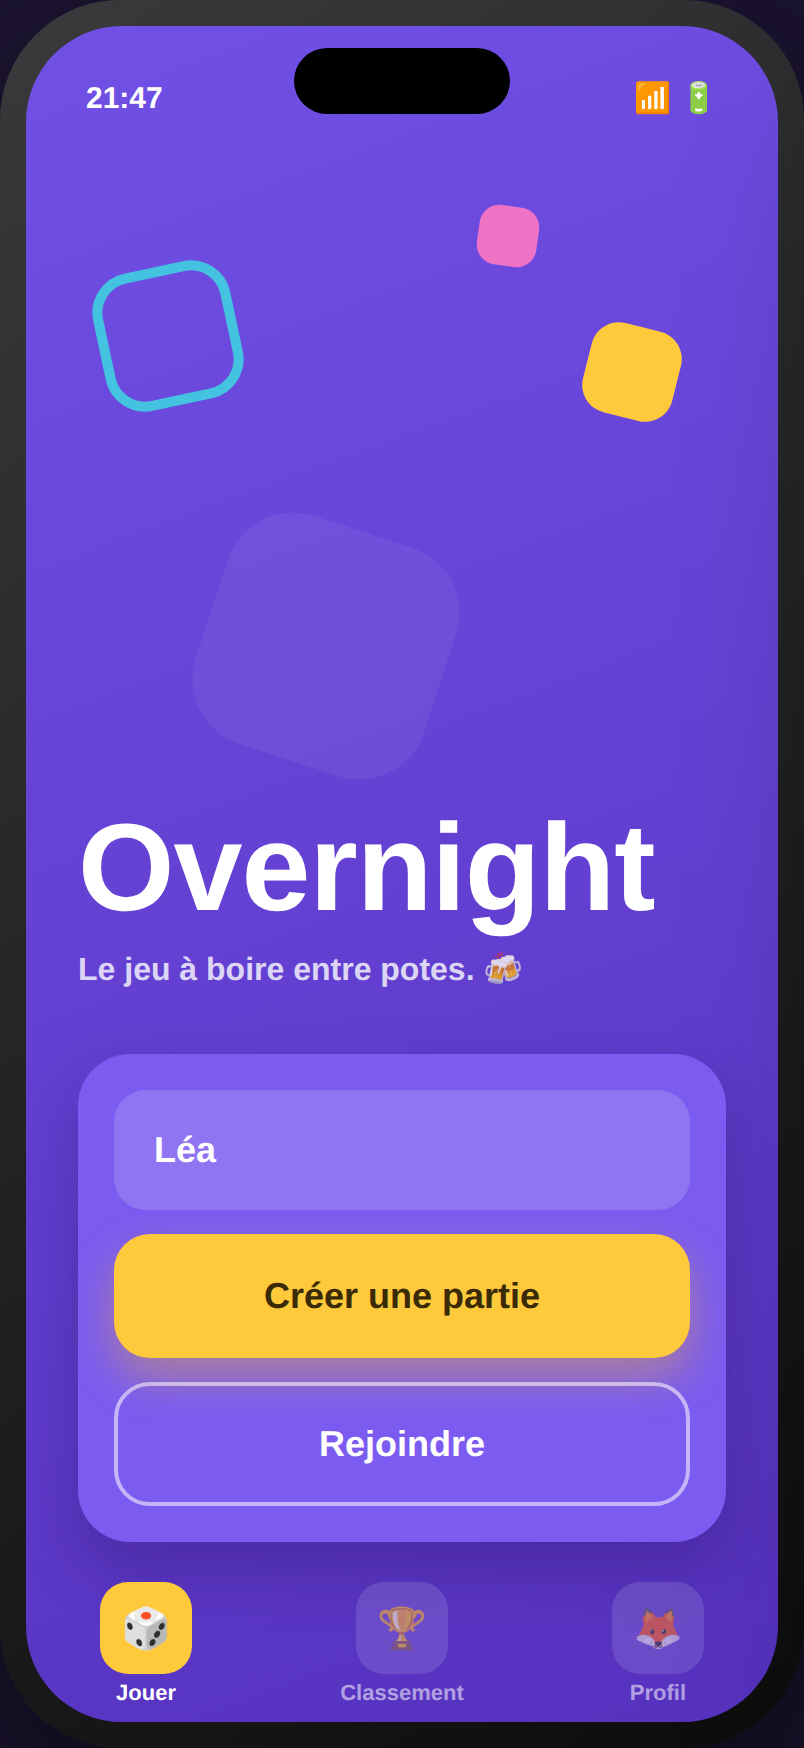
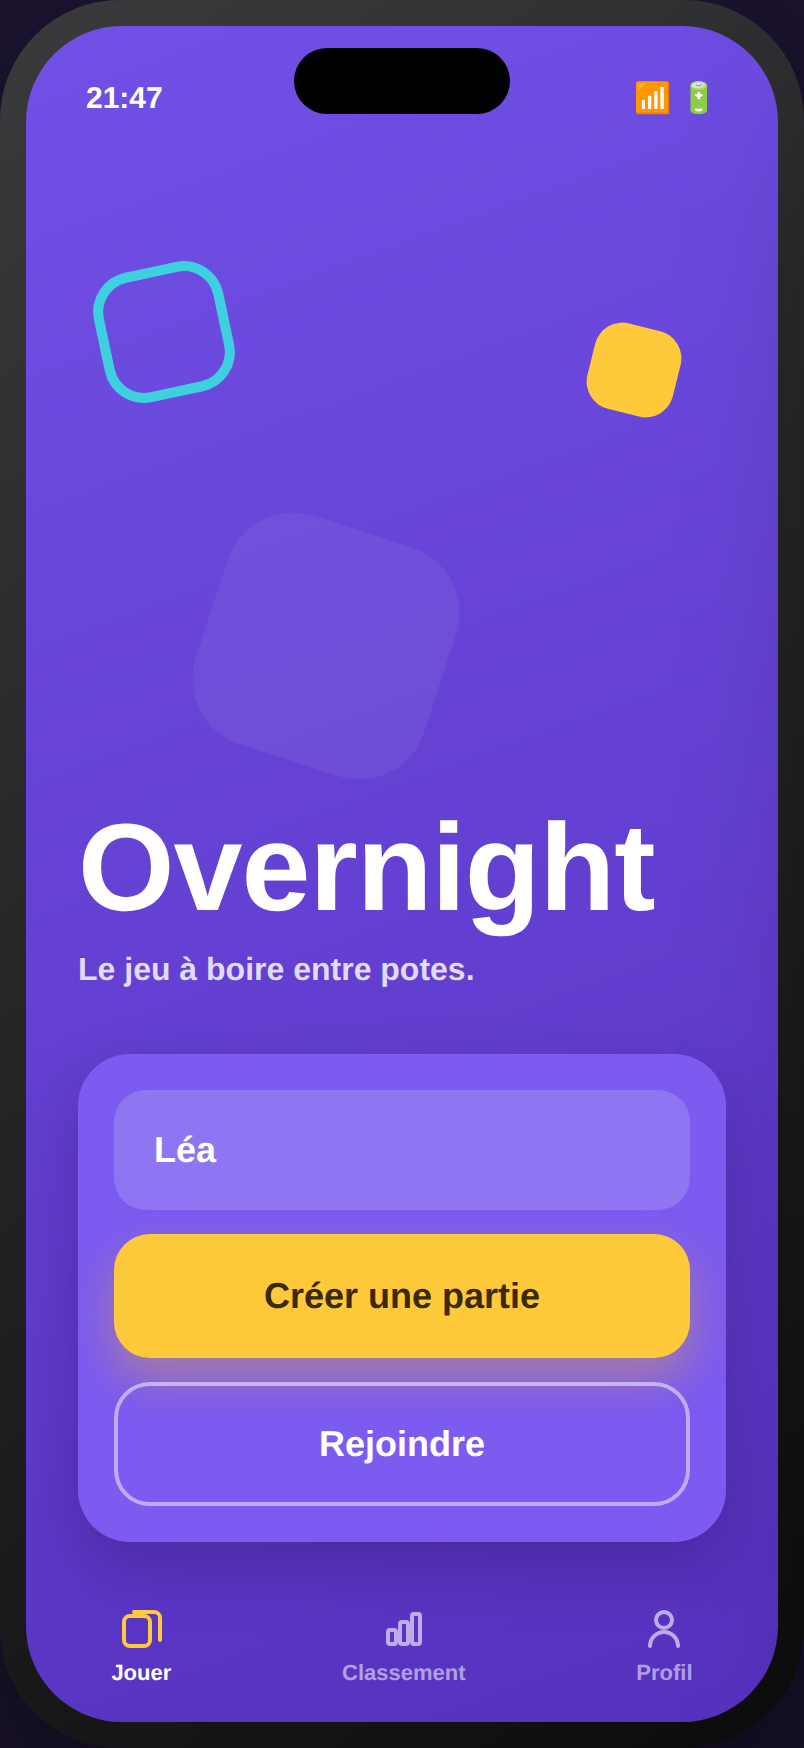
V4.1: remove emojis from UI, simplify
- Avatars = initiales en pastilles de couleur (fini les emojis animaux).
- Nav = icônes ligne SVG ; boutons = texte clair (plus de 🍷😏🎲🏆👑).
- Écrans allégés, plus sobres. Même base flat violet/jaune validée.

https://claude.ai/code/session_01EjMXnZb7XxANsUtYs8obX9

diff --git a/mockups/demo-v4.html b/mockups/demo-v4.html
@@ -3,20 +3,18 @@
 <head>
 <meta charset="UTF-8" />
 <meta name="viewport" content="width=device-width, initial-scale=1.0" />
-<title>Overnight — V4 flat (propre)</title>
+<title>Overnight — V4.1 flat (épuré, sans emoji)</title>
 <link rel="preconnect" href="https://fonts.googleapis.com">
 <link rel="preconnect" href="https://fonts.gstatic.com" crossorigin>
 <link href="https://fonts.googleapis.com/css2?family=Poppins:wght@500;600;700;800&family=Nunito+Sans:wght@400;600;700;800&display=swap" rel="stylesheet">
 <style>
   :root{
-    --p-deep:#5631BE; --p-top:#7150E6; --p-card:#7B5BF0; --p-soft:#8E6FF6; --p-input:#6B49DE;
+    --p-deep:#5631BE; --p-top:#7150E6; --p-card:#7B5BF0; --p-input:#6B49DE;
     --yellow:#FFC93C; --yellow-d:#F0B626; --cyan:#3FD0E0; --pink:#FF77C2;
-    --ink:#211A38; --ink2:#7A7396; --white:#fff;
-    --teal-top:#5FC9CE;
+    --ink:#211A38; --ink2:#7A7396; --white:#fff; --teal-top:#5FC9CE;
     --f:"Poppins",-apple-system,"Segoe UI",sans-serif;
     --b:"Nunito Sans",-apple-system,sans-serif;
-    --sh:0 14px 30px rgba(35,16,80,.28);
-    --sh-sm:0 8px 18px rgba(35,16,80,.18);
+    --sh:0 14px 30px rgba(35,16,80,.28); --sh-sm:0 8px 18px rgba(35,16,80,.16);
   }
   *{box-sizing:border-box;margin:0;padding:0;-webkit-font-smoothing:antialiased;}
   body{background:#1c1430;display:flex;flex-wrap:wrap;gap:44px;justify-content:center;align-items:flex-start;padding:52px;font-family:var(--b);}
@@ -24,26 +22,27 @@
   .label{width:100%;text-align:center;color:#9385b8;font-weight:800;letter-spacing:2px;text-transform:uppercase;font-size:12px;margin-top:16px;}
   .screen{position:relative;width:100%;height:100%;border-radius:48px;overflow:hidden;background:linear-gradient(160deg,var(--p-top),var(--p-deep));color:var(--white);}
   .island{position:absolute;top:11px;left:50%;transform:translateX(-50%);width:108px;height:33px;background:#000;border-radius:20px;z-index:60;}
-  .sb{position:absolute;top:0;left:0;right:0;height:54px;z-index:50;display:flex;justify-content:space-between;align-items:center;padding:18px 30px 0;font-weight:700;font-size:15px;color:#fff;font-family:var(--b);}
+  .sb{position:absolute;top:0;left:0;right:0;height:54px;z-index:50;display:flex;justify-content:space-between;align-items:center;padding:18px 30px 0;font-weight:700;font-size:15px;font-family:var(--b);}
   .ct{position:absolute;inset:0;z-index:20;display:flex;flex-direction:column;padding:70px 26px 26px;}
   .shape{position:absolute;z-index:5;}
   h1{font-family:var(--f);font-weight:800;line-height:1.0;letter-spacing:-.5px;}
   h2{font-family:var(--f);font-weight:700;line-height:1.1;}
-  .sub{font-family:var(--b);font-weight:600;color:rgba(255,255,255,.8);line-height:1.45;}
-  .btn{height:62px;border-radius:18px;display:flex;align-items:center;justify-content:center;gap:9px;font-family:var(--f);font-weight:700;font-size:18px;border:none;cursor:pointer;text-decoration:none;}
-  .btn.y{background:var(--yellow);color:#3A2A06;box-shadow:0 10px 22px rgba(240,182,38,.4);}
-  .btn.outline{background:transparent;border:2px solid rgba(255,255,255,.55);color:#fff;}
+  .sub{font-family:var(--b);font-weight:600;color:rgba(255,255,255,.82);line-height:1.45;}
+  .btn{height:62px;border-radius:18px;display:flex;align-items:center;justify-content:center;font-family:var(--f);font-weight:700;font-size:18px;border:none;cursor:pointer;text-decoration:none;}
+  .btn.y{background:var(--yellow);color:#3A2A06;box-shadow:0 10px 22px rgba(240,182,38,.38);}
+  .btn.outline{background:transparent;border:2px solid rgba(255,255,255,.5);color:#fff;}
   .input{height:60px;border-radius:16px;background:rgba(255,255,255,.16);display:flex;align-items:center;padding:0 20px;font-family:var(--f);font-weight:700;font-size:18px;color:#fff;}
-  .ava{border-radius:50%;display:flex;align-items:center;justify-content:center;border:3px solid rgba(255,255,255,.9);}
+  /* avatar monogramme */
+  .av{border-radius:50%;display:flex;align-items:center;justify-content:center;font-family:var(--f);font-weight:700;color:#fff;border:2px solid rgba(255,255,255,.85);}
   .spacer{flex:1;} .row{display:flex;gap:12px;}
-  .navbar{position:absolute;bottom:0;left:0;right:0;height:78px;display:flex;justify-content:space-around;align-items:center;z-index:40;}
-  .nav{display:flex;flex-direction:column;align-items:center;gap:4px;font-family:var(--b);font-weight:700;font-size:11px;color:rgba(255,255,255,.55);}
-  .nav .ic{width:46px;height:46px;border-radius:14px;background:rgba(255,255,255,.12);display:flex;align-items:center;justify-content:center;font-size:20px;}
-  .nav.on{color:#fff;} .nav.on .ic{background:var(--yellow);color:#3A2A06;}
   .seg{display:inline-flex;background:rgba(255,255,255,.14);border-radius:999px;padding:5px;}
-  .seg div{padding:9px 18px;border-radius:999px;font-family:var(--f);font-weight:700;font-size:13px;color:rgba(255,255,255,.8);}
+  .seg div{padding:9px 18px;border-radius:999px;font-family:var(--f);font-weight:700;font-size:13px;color:rgba(255,255,255,.82);}
   .seg div.on{background:#fff;color:var(--p-deep);}
   .rowcard{background:#fff;border-radius:18px;box-shadow:var(--sh-sm);display:flex;align-items:center;gap:14px;padding:12px 16px;color:var(--ink);}
+  .navbar{position:absolute;bottom:0;left:0;right:0;height:78px;display:flex;justify-content:space-around;align-items:center;z-index:40;}
+  .nav{display:flex;flex-direction:column;align-items:center;gap:5px;font-family:var(--f);font-weight:700;font-size:11px;color:rgba(255,255,255,.55);}
+  .nav svg{width:24px;height:24px;stroke:rgba(255,255,255,.6);fill:none;stroke-width:2;stroke-linecap:round;stroke-linejoin:round;}
+  .nav.on{color:#fff;} .nav.on svg{stroke:var(--yellow);}
 </style>
 </head>
 <body>
@@ -51,15 +50,13 @@
 <!-- 1 ACCUEIL -->
 <div><div class="phone"><div class="screen">
   <div class="island"></div><div class="sb"><span>21:47</span><span>📶 🔋</span></div>
-  <!-- formes flat -->
-  <div class="shape" style="top:120px;left:36px;width:70px;height:70px;border-radius:20px;border:5px solid var(--cyan);transform:rotate(-12deg);opacity:.9;"></div>
-  <div class="shape" style="top:150px;right:50px;width:46px;height:46px;border-radius:14px;background:var(--yellow);transform:rotate(14deg);"></div>
-  <div class="shape" style="top:90px;right:120px;width:30px;height:30px;border-radius:10px;background:var(--pink);transform:rotate(8deg);opacity:.9;"></div>
+  <div class="shape" style="top:120px;left:36px;width:66px;height:66px;border-radius:20px;border:5px solid var(--cyan);transform:rotate(-12deg);"></div>
+  <div class="shape" style="top:150px;right:50px;width:44px;height:44px;border-radius:14px;background:var(--yellow);transform:rotate(14deg);"></div>
   <div class="shape" style="top:250px;left:90px;width:120px;height:120px;border-radius:34px;background:rgba(255,255,255,.06);transform:rotate(18deg);"></div>
   <div class="ct" style="padding-bottom:90px;">
     <div class="spacer"></div>
     <h1 style="font-size:62px;">Overnight</h1>
-    <div class="sub" style="margin-top:8px;font-size:16px;">Le jeu à boire entre potes. 🍻</div>
+    <div class="sub" style="margin-top:8px;font-size:16px;">Le jeu à boire entre potes.</div>
     <div style="height:30px;"></div>
     <div style="background:var(--p-card);border-radius:26px;padding:18px;box-shadow:var(--sh);">
       <div class="input">Léa</div>
@@ -68,28 +65,26 @@
     </div>
   </div>
   <div class="navbar">
-    <div class="nav on"><div class="ic">🎲</div>Jouer</div>
-    <div class="nav"><div class="ic">🏆</div>Classement</div>
-    <div class="nav"><div class="ic">🦊</div>Profil</div>
+    <div class="nav on"><svg viewBox="0 0 24 24"><rect x="3" y="6" width="13" height="15" rx="3"/><path d="M8 4h10a3 3 0 0 1 3 3v11"/></svg>Jouer</div>
+    <div class="nav"><svg viewBox="0 0 24 24"><rect x="4" y="13" width="4" height="7" rx="1"/><rect x="10" y="9" width="4" height="11" rx="1"/><rect x="16" y="5" width="4" height="15" rx="1"/></svg>Classement</div>
+    <div class="nav"><svg viewBox="0 0 24 24"><circle cx="12" cy="8" r="4"/><path d="M5 21a7 7 0 0 1 14 0"/></svg>Profil</div>
   </div>
 </div></div><div class="label">1 · Accueil</div></div>
 
 <!-- 2 ROOM / CODE -->
 <div><div class="phone"><div class="screen">
   <div class="island"></div><div class="sb"><span>21:50</span><span>📶 🔋</span></div>
-  <div class="shape" style="top:120px;right:40px;width:56px;height:56px;border-radius:16px;border:5px solid var(--cyan);transform:rotate(12deg);"></div>
-  <div class="shape" style="top:300px;left:30px;width:40px;height:40px;border-radius:12px;background:var(--yellow);transform:rotate(-10deg);"></div>
+  <div class="shape" style="top:120px;right:40px;width:54px;height:54px;border-radius:16px;border:5px solid var(--cyan);transform:rotate(12deg);"></div>
   <div class="ct">
     <div style="text-align:center;"><div class="sub" style="font-family:var(--f);font-weight:700;letter-spacing:3px;font-size:13px;">CODE DE LA PARTIE</div>
       <h1 style="font-size:74px;letter-spacing:8px;margin-top:4px;">FOXY</h1>
       <div class="sub" style="font-size:14px;">Partage le code, ou laisse scanner le QR.</div></div>
-
     <div style="background:var(--p-card);border-radius:24px;padding:18px;margin-top:26px;box-shadow:var(--sh);">
       <h2 style="font-size:17px;margin-bottom:14px;">Autour de la table · 3</h2>
       <div class="row" style="flex-wrap:wrap;gap:10px;">
-        <span style="display:inline-flex;align-items:center;gap:8px;background:rgba(255,255,255,.16);border-radius:999px;padding:7px 14px 7px 7px;font-family:var(--f);font-weight:700;font-size:14px;"><span class="ava" style="width:30px;height:30px;font-size:16px;background:#3FD0E0;border-width:2px;">🦊</span>Léa</span>
-        <span style="display:inline-flex;align-items:center;gap:8px;background:rgba(255,255,255,.16);border-radius:999px;padding:7px 14px 7px 7px;font-family:var(--f);font-weight:700;font-size:14px;"><span class="ava" style="width:30px;height:30px;font-size:16px;background:#FF77C2;border-width:2px;">🐺</span>Maxime</span>
-        <span style="display:inline-flex;align-items:center;gap:8px;background:rgba(255,255,255,.16);border-radius:999px;padding:7px 14px 7px 7px;font-family:var(--f);font-weight:700;font-size:14px;"><span class="ava" style="width:30px;height:30px;font-size:16px;background:#FFC93C;border-width:2px;">🦉</span>Sarah</span>
+        <span style="display:inline-flex;align-items:center;gap:9px;background:rgba(255,255,255,.16);border-radius:999px;padding:6px 16px 6px 6px;font-family:var(--f);font-weight:700;font-size:14px;"><span class="av" style="width:30px;height:30px;font-size:13px;background:#3FD0E0;border-width:0;">L</span>Léa</span>
+        <span style="display:inline-flex;align-items:center;gap:9px;background:rgba(255,255,255,.16);border-radius:999px;padding:6px 16px 6px 6px;font-family:var(--f);font-weight:700;font-size:14px;"><span class="av" style="width:30px;height:30px;font-size:13px;background:#FF77C2;border-width:0;">M</span>Maxime</span>
+        <span style="display:inline-flex;align-items:center;gap:9px;background:rgba(255,255,255,.16);border-radius:999px;padding:6px 16px 6px 6px;font-family:var(--f);font-weight:700;font-size:14px;"><span class="av" style="width:30px;height:30px;font-size:13px;background:#FFC93C;color:#3A2A06;border-width:0;">S</span>Sarah</span>
       </div>
     </div>
     <div class="spacer"></div>
@@ -100,10 +95,9 @@
 <!-- 3 QUESTION (vérités) -->
 <div><div class="phone"><div class="screen" style="background:linear-gradient(165deg,#7B5BF0,var(--teal-top));">
   <div class="island"></div><div class="sb"><span>21:54</span><span>📶 🔋</span></div>
-  <div class="ct" style="align-items:center;">
-    <div class="sub" style="font-family:var(--f);font-weight:700;font-size:14px;align-self:flex-start;">😏 Réponds franchement… ou bois.</div>
+  <div class="ct">
+    <div class="sub" style="font-family:var(--f);font-weight:700;font-size:14px;">Réponds franchement… ou bois.</div>
     <div class="spacer"></div>
-    <!-- carte blanche, gros texte -->
     <div style="width:100%;background:#fff;border-radius:28px;box-shadow:var(--sh);padding:30px 26px;color:var(--ink);">
       <div style="height:6px;width:100%;background:#EEE9F7;border-radius:99px;overflow:hidden;"><div style="width:18%;height:100%;background:var(--p-top);"></div></div>
       <div style="font-family:var(--f);font-weight:700;color:var(--p-top);font-size:14px;margin-top:18px;">Question 7 / 40</div>
@@ -111,14 +105,9 @@
         C'est qui, dans la pièce, que t'as déjà eu envie d'embrasser ?</div>
     </div>
     <div class="spacer"></div>
-    <!-- 2 actions claires -->
-    <div style="display:flex;justify-content:center;gap:40px;width:100%;">
-      <div style="text-align:center;">
-        <div style="width:74px;height:74px;border-radius:50%;background:#fff;display:flex;align-items:center;justify-content:center;font-size:32px;box-shadow:var(--sh-sm);">🍷</div>
-        <div class="sub" style="font-family:var(--f);font-weight:700;font-size:13px;margin-top:8px;">Je bois</div></div>
-      <div style="text-align:center;">
-        <div style="width:74px;height:74px;border-radius:50%;background:var(--yellow);display:flex;align-items:center;justify-content:center;font-size:32px;box-shadow:0 10px 22px rgba(240,182,38,.4);">😏</div>
-        <div class="sub" style="font-family:var(--f);font-weight:700;font-size:13px;margin-top:8px;color:#fff;">Je réponds</div></div>
+    <div class="row" style="width:100%;">
+      <a class="btn outline" style="flex:1;">Je bois</a>
+      <a class="btn y" style="flex:1;">Je réponds</a>
     </div>
   </div>
 </div></div><div class="label">3 · Question (vérités)</div></div>
@@ -130,16 +119,15 @@
     <div style="width:100%;text-align:center;"><div class="sub" style="font-family:var(--f);font-weight:700;font-size:13px;letter-spacing:1px;">LA MONTÉE · MANCHE 1</div>
       <h1 style="font-size:30px;margin-top:4px;">Rouge ou Noir ?</h1></div>
     <div class="spacer"></div>
-    <!-- carte à jouer -->
     <div style="width:180px;height:248px;border-radius:20px;background:#fff;box-shadow:0 22px 44px rgba(0,0,0,.4);display:flex;align-items:center;justify-content:center;position:relative;">
       <div style="position:absolute;top:14px;left:18px;font-family:var(--f);font-weight:700;font-size:32px;color:#E0392B;">7</div>
       <div style="position:absolute;bottom:14px;right:18px;font-family:var(--f);font-weight:700;font-size:32px;color:#E0392B;transform:rotate(180deg);">7</div>
-      <div style="font-size:92px;color:#E0392B;">♥</div></div>
-    <div style="margin-top:18px;font-family:var(--f);font-weight:700;font-size:16px;color:rgba(255,255,255,.9);">🍷 1 gorgée si tu te trompes</div>
+      <div style="font-size:92px;color:#E0392B;line-height:1;">&#9829;</div></div>
+    <div style="margin-top:18px;font-family:var(--f);font-weight:700;font-size:16px;color:rgba(255,255,255,.9);">1 gorgée si tu te trompes</div>
     <div class="spacer"></div>
     <div class="row" style="width:100%;">
       <a class="btn" style="flex:1;height:80px;font-size:22px;background:#E0392B;color:#fff;box-shadow:0 12px 24px rgba(224,57,43,.4);">Rouge</a>
-      <a class="btn" style="flex:1;height:80px;font-size:22px;background:#1A1A28;color:#fff;box-shadow:0 12px 24px rgba(0,0,0,.45);">Noir</a>
+      <a class="btn" style="flex:1;height:80px;font-size:22px;background:#16161F;color:#fff;box-shadow:0 12px 24px rgba(0,0,0,.45);">Noir</a>
     </div>
   </div>
 </div></div><div class="label">4 · La Montée</div></div>
@@ -151,34 +139,33 @@
     <div style="text-align:center;"><h1 style="font-size:30px;">Classement</h1></div>
     <div style="display:flex;justify-content:center;margin-top:14px;"><div class="seg"><div class="on">Ce soir</div><div>Semaine</div><div>Toujours</div></div></div>
 
-    <!-- XP perso (la seule gamification) -->
+    <!-- XP perso (seule gamification) -->
     <div style="background:var(--p-card);border-radius:18px;padding:14px 16px;margin-top:18px;display:flex;align-items:center;gap:12px;box-shadow:var(--sh-sm);">
-      <div class="ava" style="width:42px;height:42px;font-size:22px;background:#3FD0E0;">🦊</div>
-      <div style="flex:1;"><div style="display:flex;justify-content:space-between;font-family:var(--f);font-weight:700;font-size:13px;"><span>Niveau 7</span><span style="color:rgba(255,255,255,.8);">1 240 / 1 500 XP</span></div>
+      <div class="av" style="width:42px;height:42px;font-size:17px;background:#3FD0E0;border-width:0;">L</div>
+      <div style="flex:1;"><div style="display:flex;justify-content:space-between;font-family:var(--f);font-weight:700;font-size:13px;"><span>Niveau 7</span><span style="color:rgba(255,255,255,.82);">1 240 / 1 500 XP</span></div>
         <div style="height:8px;background:rgba(0,0,0,.22);border-radius:99px;margin-top:6px;overflow:hidden;"><div style="width:78%;height:100%;background:var(--yellow);border-radius:99px;"></div></div></div>
     </div>
 
     <!-- podium flat -->
-    <div style="display:flex;justify-content:center;align-items:flex-end;gap:14px;margin-top:24px;">
+    <div style="display:flex;justify-content:center;align-items:flex-end;gap:14px;margin-top:26px;">
       <div style="text-align:center;width:92px;">
-        <div class="ava" style="width:56px;height:56px;font-size:28px;background:#FF77C2;margin:0 auto;">🐺</div>
+        <div class="av" style="width:56px;height:56px;font-size:22px;background:#FF77C2;margin:0 auto;">M</div>
         <div style="font-family:var(--f);font-weight:700;font-size:13px;margin-top:6px;">Maxime</div>
         <div style="height:78px;margin-top:8px;border-radius:14px 14px 0 0;background:#B9A8F2;display:flex;align-items:flex-start;justify-content:center;padding-top:14px;font-family:var(--f);font-weight:800;font-size:26px;color:#fff;">2</div></div>
       <div style="text-align:center;width:100px;">
-        <div style="font-size:24px;">👑</div>
-        <div class="ava" style="width:66px;height:66px;font-size:34px;background:#3FD0E0;margin:0 auto;">🦊</div>
-        <div style="font-family:var(--f);font-weight:800;font-size:14px;margin-top:6px;">Léa</div>
+        <div class="av" style="width:68px;height:68px;font-size:27px;background:#3FD0E0;margin:0 auto;border-color:var(--yellow);box-shadow:0 0 0 2px var(--yellow);">L</div>
+        <div style="font-family:var(--f);font-weight:800;font-size:14px;margin-top:8px;">Léa</div>
         <div style="height:108px;margin-top:8px;border-radius:14px 14px 0 0;background:#C8B8FB;display:flex;align-items:flex-start;justify-content:center;padding-top:16px;font-family:var(--f);font-weight:800;font-size:32px;color:#fff;">1</div></div>
       <div style="text-align:center;width:92px;">
-        <div class="ava" style="width:52px;height:52px;font-size:26px;background:#FFC93C;margin:0 auto;">🦉</div>
+        <div class="av" style="width:52px;height:52px;font-size:20px;background:#FFC93C;color:#3A2A06;margin:0 auto;">S</div>
         <div style="font-family:var(--f);font-weight:700;font-size:13px;margin-top:6px;">Sarah</div>
         <div style="height:60px;margin-top:8px;border-radius:14px 14px 0 0;background:#A696E8;display:flex;align-items:flex-start;justify-content:center;padding-top:12px;font-family:var(--f);font-weight:800;font-size:22px;color:#fff;">3</div></div>
     </div>
 
     <!-- liste blanche -->
     <div style="margin-top:8px;display:flex;flex-direction:column;gap:10px;">
-      <div class="rowcard"><span style="font-family:var(--f);font-weight:800;color:var(--ink2);width:16px;">4</span><div class="ava" style="width:36px;height:36px;font-size:18px;background:#FFB37A;border-width:2px;">🐗</div><b style="flex:1;font-family:var(--f);">Tom</b><b style="font-family:var(--f);">820 pts</b></div>
-      <div class="rowcard"><span style="font-family:var(--f);font-weight:800;color:var(--ink2);width:16px;">5</span><div class="ava" style="width:36px;height:36px;font-size:18px;background:#9AE89A;border-width:2px;">🦌</div><b style="flex:1;font-family:var(--f);">Inès</b><b style="font-family:var(--f);">640 pts</b></div>
+      <div class="rowcard"><span style="font-family:var(--f);font-weight:800;color:var(--ink2);width:16px;">4</span><div class="av" style="width:36px;height:36px;font-size:15px;background:#FFB37A;border-width:0;">T</div><b style="flex:1;font-family:var(--f);">Tom</b><b style="font-family:var(--f);">820 pts</b></div>
+      <div class="rowcard"><span style="font-family:var(--f);font-weight:800;color:var(--ink2);width:16px;">5</span><div class="av" style="width:36px;height:36px;font-size:15px;background:#7BD88F;border-width:0;">I</div><b style="flex:1;font-family:var(--f);">Inès</b><b style="font-family:var(--f);">640 pts</b></div>
     </div>
   </div>
 </div></div><div class="label">5 · Classement (XP)</div></div>
